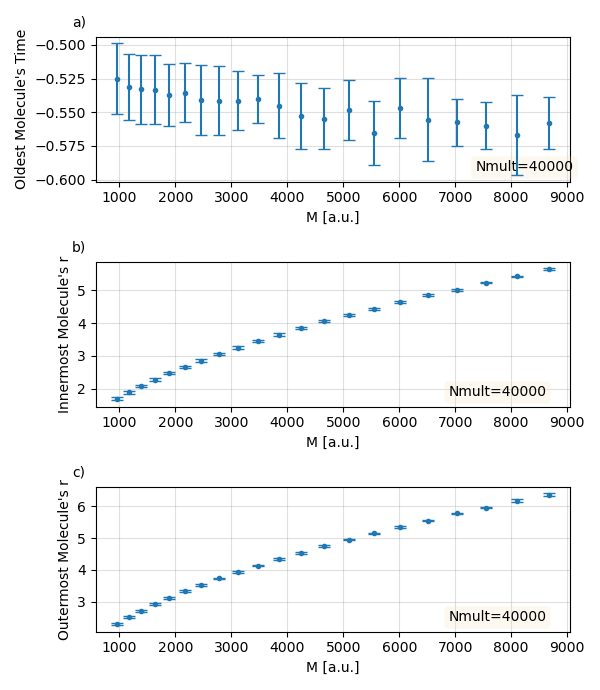
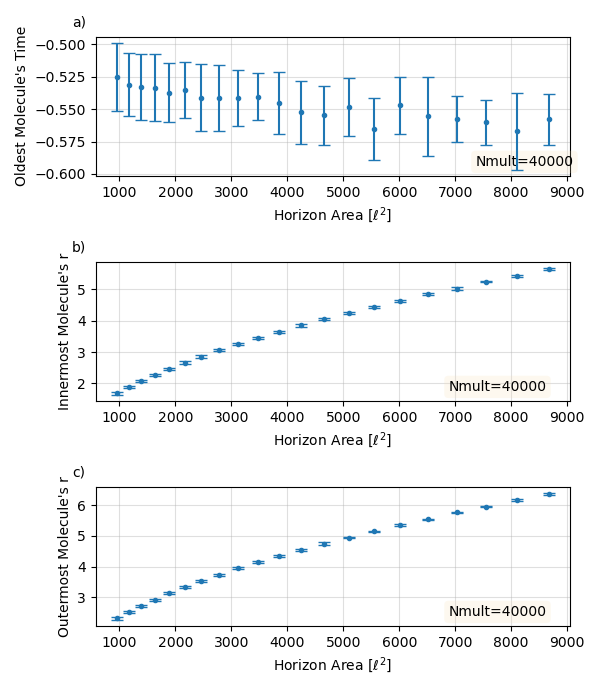
Updated lambda boundary plots with right xlabel

diff --git a/scripts_py/plot_molecule_distribution.py b/scripts_py/plot_molecule_distribution.py
@@ -175,7 +175,10 @@ if plot_boundaries:
                 ls = '', alpha=0.2)
     ax.text(0.80, 0.05, fixed_string, transform=ax.transAxes, fontsize=10, 
             va='bottom', ha = 'left', bbox=props)
-    plt.xlabel(f'{varying_var} [a.u.]')
+    if varying_var == "M":
+        plt.xlabel(r'Horizon Area $[\ell^2]$') #not yet in terms of l^2)
+    else:
+        plt.xlabel(f'{varying_var} [a.u.]')
     plt.ylabel("Oldest Molecule's Time")
     plt.grid(alpha = 0.4) 
 
@@ -191,7 +194,10 @@ if plot_boundaries:
                 ls = '', alpha=0.2)
     ax.text(0.95, 0.05, fixed_string, transform=ax.transAxes, fontsize=10, 
             va='bottom', ha = 'right', bbox=props)
-    plt.xlabel(f'{varying_var} [a.u.]')
+    if varying_var == "M":
+        plt.xlabel(r'Horizon Area $[\ell^2]$') #not yet in terms of l^2)
+    else:
+        plt.xlabel(f'{varying_var} [a.u.]')
     plt.ylabel("Innermost Molecule's r")
     plt.grid(alpha = 0.4) 
 
@@ -206,7 +212,10 @@ if plot_boundaries:
                 ls = '', alpha=0.2)
     ax.text(0.95, 0.05, fixed_string, transform=ax.transAxes, fontsize=10, 
             va='bottom', ha = 'right', bbox=props)
-    plt.xlabel(f'{varying_var} [a.u.]')
+    if varying_var == "M":
+        plt.xlabel(r'Horizon Area $[\ell^2]$') #not yet in terms of l^2)
+    else:
+        plt.xlabel(f'{varying_var} [a.u.]')
     plt.ylabel("Outermost Molecule's r")
     plt.grid(alpha = 0.4) 
 
